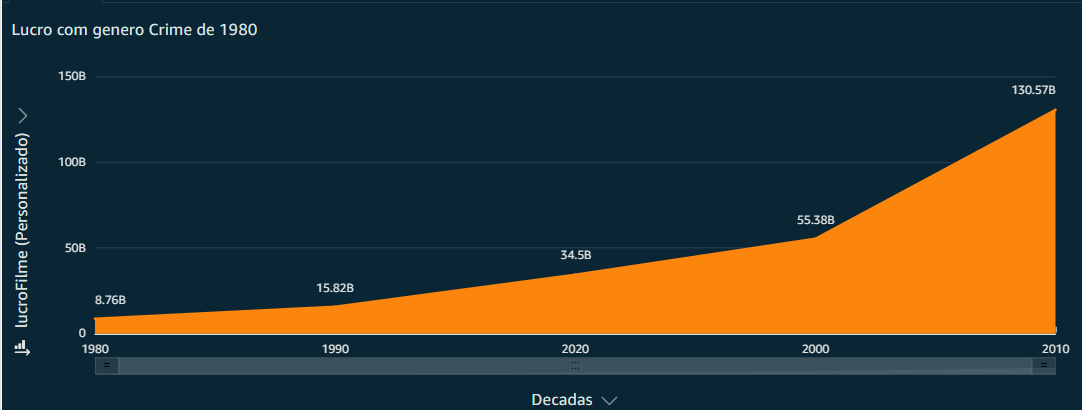
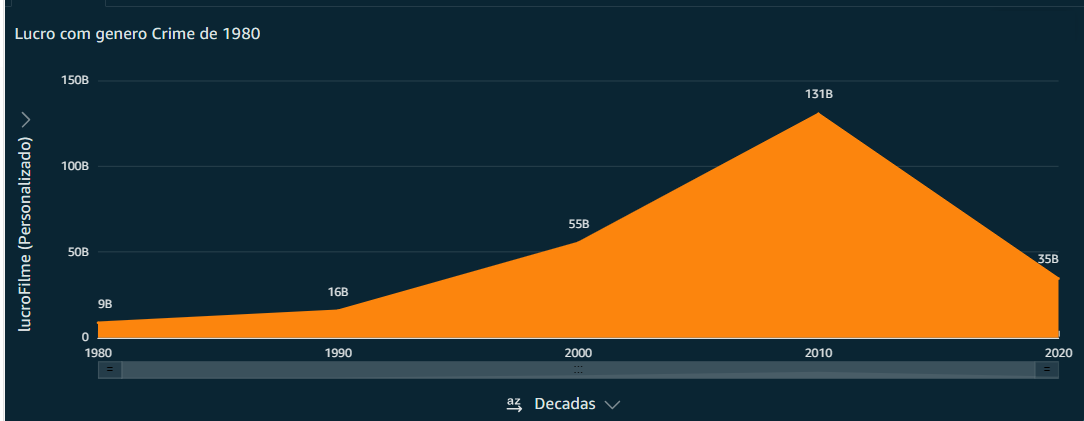
editando o readme do desafio na  sprint10

diff --git a/SPRINTS/SPRINT_10/DESAFIO/README.MD b/SPRINTS/SPRINT_10/DESAFIO/README.MD
@@ -1,1 +1,39 @@
-DESAFIO
+# DESAFIO
+
+**No último desafio das sprints, foi realizado analise dos dados do arquivo filmes.csv e dados da extensão .json, extraído por meio de algoritmo executado no aws lambda, para complementar o arquivo CSV, foi necessário realizar um limpeza e juntas os arquivos, e realizar modelagem dimensional para depois usar a ferramenta aws Quicksight para realizar analise por meio dos gráficos que explicarei a seguir.**
+
+## Nesta Análise tem objetivo verificar o quanto publico geral gosta do genero crime em filmes,em que década teve mais atenção, e dentro deste genero crime foi analisado a preferência por genero artistico, para investigar foi usado dados sobre notas medias dos filmes, orçamento, e lucro. Esses dados foram distribuido nos graficos por ano, décadas e lucros.
+
+
+**Evidência 01 -Os dados modelados foram retirados do bucket data-lake-do-weber no AWS S3 e vinculado ao quicksight.**
+
+![weber](/SPRINTS/SPRINT_10/EVIDÊNCIAS/1_ConjuntoDados_Quicksight.png)
+
+
+**Evidência 02 - Para complementar ainda mais os dados bucket foi criado dois campos calculados, um para Décadas e outro para Lucro, que é a difernça entre orçamento gasto e receitas que entreram.**
+
+![weber](/SPRINTS/SPRINT_10/EVIDÊNCIAS/2_campoCalculado_Quicksight.png)
+
+**Evidência 03 - Neste gráfico observamos que nas ultimas  cinco décadas os votos médios teve pequeno crescimento entre 1980 e 1990, mas que na década de 2000 houve queda, no entanto na década de 2010 começou a crescer, indicando que em que década recente as pessoas tiveram mais interesse no gênero crime.**
+
+![weber](/SPRINTS/SPRINT_10/EVIDÊNCIAS/3_Quicksight_Grafico_01.png)
+
+
+**Evidência 04 - Neste gráfico observamos que nas ultimas  cinco décadas os lucros por década teve crescimento até 2010, mas houve decréscimo na década seguinte indicando que de 2010 a 2020 diminuiu o interesse no gênero crime, podemos concluir isso, já que lucro tem ligação direta com receita, e ela esta intrínseca com quantos assistiram os filmes.**
+
+![weber](/SPRINTS/SPRINT_10/EVIDÊNCIAS/4_Quicksight_Grafico_02.png)
+
+
+**Evidência 05 - .**
+
+![weber](/SPRINTS/SPRINT_10/EVIDÊNCIAS/5_Quicksight_Grafico_03.png)
+
+
+**Evidência 06 - .**
+
+![weber](/SPRINTS/SPRINT_10/EVIDÊNCIAS/6_Quicksight_Grafico_04.png)
+
+
+**Evidência 07 - .**
+
+![weber](/SPRINTS/SPRINT_10/EVIDÊNCIAS/7_Quicksight_Grafico_05.png)

diff --git a/SPRINTS/SPRINT_10/README.md b/SPRINTS/SPRINT_10/README.md
@@ -8,3 +8,5 @@
 ### Seção 04 - Desafio da sprint 10
 
 * [**--  Desafio --**](https://github.com/WeberGoncalves/WeberGoncalvesSilva/tree/main/SPRINTS/SPRINT_10/DESAFIO)
+
+# Prefiro trabalhar com Engenharia de Dados.
